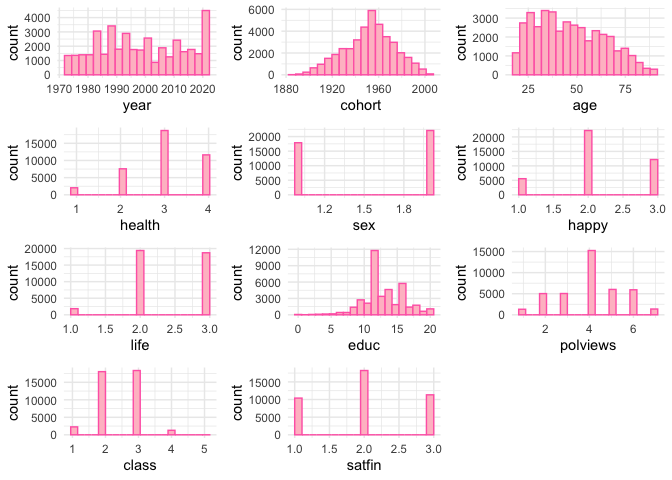
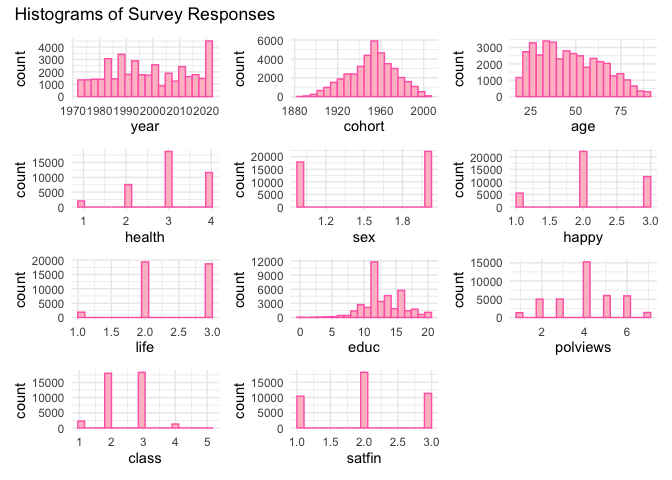
add correlation heatmap

Changed region(s): [[0.0, 0.0, 1.0, 1.0], [0.3438, 0.7812, 0.6562, 1.0]]

diff --git a/gss_eda.md b/gss_eda.md
@@ -66,34 +66,74 @@ data_gss <- read_csv("data/extracted_gss_variables.csv") %>%
 ``` r
 # Tidyverse and flexible number of histograms
 
+library(patchwork)
+
 # Create list to store ggplot objects
 plot_list <- list()
 
 # Loop through column names and create plots
 for (var in colnames(data_gss)) {
   if (is.numeric(data_gss[[var]])) {  # Only create histograms for numeric columns
-    p <- ggplot(data_gss, aes_string(x = var)) +
+    p <- ggplot(data_gss, aes(x = .data[[var]])) +  # Use .data[[var]] for tidy evaluation
       geom_histogram(bins = 20, fill = "pink", color = "hotpink") +
       theme_minimal()
     
     plot_list[[var]] <- p
   }
 }
-```
 
-    ## Warning: `aes_string()` was deprecated in ggplot2 3.0.0.
-    ## ℹ Please use tidy evaluation idioms with `aes()`.
-    ## ℹ See also `vignette("ggplot2-in-packages")` for more information.
-    ## This warning is displayed once every 8 hours.
-    ## Call `lifecycle::last_lifecycle_warnings()` to see where this warning was
-    ## generated.
+# Combine all plots using patchwork and add a title
+combined_plot <- wrap_plots(plot_list, ncol = 3) +
+  plot_annotation(title = "Histograms of Survey Responses")
 
-``` r
-# Display plots in a 3x3 grid
-do.call(grid.arrange, c(plot_list, ncol = 3))
+# Display the combined plot
+print(combined_plot)
 ```
 
 ![](gss_eda_files/figure-gfm/eda_general-1.png)<!-- -->
+
+# Correlation Heatmap
+
+``` r
+correlation_auto <- cor(data_gss)
+knitr::kable(correlation_auto)
+```
+
+|  | year | cohort | age | health | sex | happy | life | educ | polviews | class | satfin |
+|:---|---:|---:|---:|---:|---:|---:|---:|---:|---:|---:|---:|
+| year | 1.0000000 | 0.5895682 | 0.1156949 | -0.0550720 | -0.0057159 | -0.0856281 | -0.0001011 | 0.2471477 | -0.0136163 | -0.0263427 | -0.0223087 |
+| cohort | 0.5895682 | 1.0000000 | -0.7340846 | 0.1406949 | -0.0252270 | -0.0745466 | 0.0528437 | 0.2747073 | -0.0984603 | -0.1212801 | -0.1544326 |
+| age | 0.1156949 | -0.7340846 | 1.0000000 | -0.2193179 | 0.0262172 | 0.0196846 | -0.0650690 | -0.1300390 | 0.1096333 | 0.1269966 | 0.1711570 |
+| health | -0.0550720 | 0.1406949 | -0.2193179 | 1.0000000 | -0.0264873 | 0.2722478 | 0.2645358 | 0.2565862 | -0.0060991 | 0.1656160 | 0.1780896 |
+| sex | -0.0057159 | -0.0252270 | 0.0262172 | -0.0264873 | 1.0000000 | 0.0070138 | -0.0556529 | -0.0303791 | -0.0322852 | -0.0154809 | -0.0314176 |
+| happy | -0.0856281 | -0.0745466 | 0.0196846 | 0.2722478 | 0.0070138 | 1.0000000 | 0.3374248 | 0.0761941 | 0.0562054 | 0.1745948 | 0.2957047 |
+| life | -0.0001011 | 0.0528437 | -0.0650690 | 0.2645358 | -0.0556529 | 0.3374248 | 1.0000000 | 0.2047851 | -0.0148122 | 0.1641290 | 0.1743384 |
+| educ | 0.2471477 | 0.2747073 | -0.1300390 | 0.2565862 | -0.0303791 | 0.0761941 | 0.2047851 | 1.0000000 | -0.0752421 | 0.2765887 | 0.1106097 |
+| polviews | -0.0136163 | -0.0984603 | 0.1096333 | -0.0060991 | -0.0322852 | 0.0562054 | -0.0148122 | -0.0752421 | 1.0000000 | 0.0118224 | 0.0586271 |
+| class | -0.0263427 | -0.1212801 | 0.1269966 | 0.1656160 | -0.0154809 | 0.1745948 | 0.1641290 | 0.2765887 | 0.0118224 | 1.0000000 | 0.3343757 |
+| satfin | -0.0223087 | -0.1544326 | 0.1711570 | 0.1780896 | -0.0314176 | 0.2957047 | 0.1743384 | 0.1106097 | 0.0586271 | 0.3343757 | 1.0000000 |
+
+``` r
+# Create a heatmap
+
+#upper_tri <- matrixcalc::upper.triangle(correlation_auto)
+#melted_cormat <- reshape2::melt(upper_tri, na.rm = TRUE)
+
+melted_cormat <- reshape2::melt(cor(data_gss), na.rm = TRUE)
+
+ggplot(data = melted_cormat, aes(Var2, Var1, fill = value))+
+ geom_tile(color = "white")+
+ scale_fill_gradient2(low = "blue", high = "red", mid = "white", 
+   midpoint = 0, limit = c(-1,1), space = "Lab", 
+   name="Pearson\nCorrelation") +
+  theme_minimal()+ 
+ theme(axis.text.x = element_text(angle = 45, vjust = 1, 
+     hjust = 1))+
+ coord_fixed() +
+  geom_text(aes(Var2, Var1, label = if_else(value != 0, as.character(round(value, digits = 2)), " ")))
+```
+
+![](gss_eda_files/figure-gfm/unnamed-chunk-1-1.png)<!-- -->
 
 # Mean health over A/P/C
 
@@ -141,7 +181,7 @@ data_gss %>%
     ## `summarise()` has grouped output by 'year'. You can override using the
     ## `.groups` argument.
 
-![](gss_eda_files/figure-gfm/unnamed-chunk-1-1.png)<!-- -->
+![](gss_eda_files/figure-gfm/unnamed-chunk-2-1.png)<!-- -->
 
 ``` r
 data_gss %>% 
@@ -155,7 +195,7 @@ data_gss %>%
     ## `summarise()` has grouped output by 'age'. You can override using the `.groups`
     ## argument.
 
-![](gss_eda_files/figure-gfm/unnamed-chunk-1-2.png)<!-- -->
+![](gss_eda_files/figure-gfm/unnamed-chunk-2-2.png)<!-- -->
 
 # Happiness and health
 
